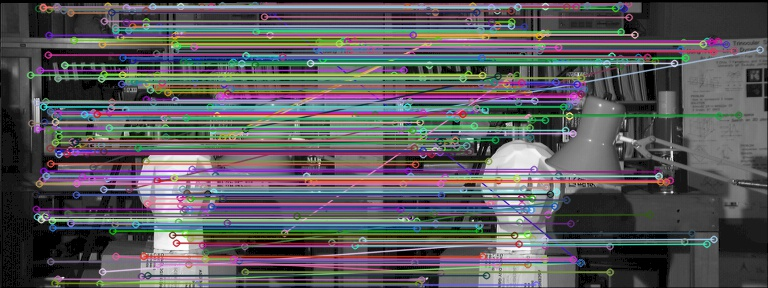
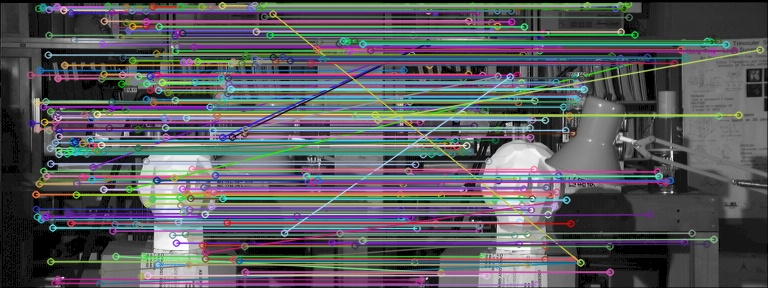
Added inlier epilines for eipoloar

diff --git a/Project 2/Task2/main.py b/Project 2/Task2/main.py
@@ -1,7 +1,6 @@
 import os
 import cv2 as cv
 import numpy as np
-from matplotlib import pyplot as plt
 import random
 
 UBIT = 'ameenmoh'
@@ -72,7 +71,7 @@ def _draw_match_keypoints(*args):
     return(good_matches)
 
 
-def _get_fundamental_matrix(good_matches, keypoint_1, keypoint_2, F_=True):
+def _get_fundamental_matrix(good_matches, keypoint_1, keypoint_2, F_ = True):
     """
     """
     source = np.float32(
@@ -85,6 +84,47 @@ def _get_fundamental_matrix(good_matches, keypoint_1, keypoint_2, F_=True):
         print('Fundamental Matrix')
         print(F)
     return F, mask, source, dest
+
+
+def drawlines(img1, img2, lines, pts1, pts2):
+    """ img1 - image on which we draw the epilines for the points in img2
+        lines - corresponding epilines 
+    """
+    r, c = img1.shape
+    img1 = cv.cvtColor(img1, cv.COLOR_GRAY2BGR)
+    img2 = cv.cvtColor(img2, cv.COLOR_GRAY2BGR)
+    for r, pt1, pt2 in zip(lines, pts1, pts2):
+        color = tuple(np.random.randint(0, 255, 3).tolist())
+        x0, y0 = map(int, [0, -r[2]/r[1]])
+        x1, y1 = map(int, [c, -(r[2]+r[0]*c)/r[1]])
+        img1 = cv.line(img1, (x0, y0), (x1, y1), color, 1)
+        # img1 = cv.circle(img1, tuple(pt1), 5, color, -1)
+        # img2 = cv.circle(img2, tuple(pt2), 5, color, -1)
+    return(img1, img2)
+
+
+def _draw_inlier_matches(img1_g, img2_g, good_matches, keypoint_1, keypoint_2):
+    """
+    """
+    good_matches = random.sample(good_matches, 10)
+    F, inliers, pts1, pts2 = _get_fundamental_matrix(
+        good_matches, keypoint_1, keypoint_2, False)
+    # Find epilines corresponding to points in right image (second image) and
+    # drawing its lines on left image
+    lines1 = cv.computeCorrespondEpilines(pts2.reshape(-1, 1, 2), 2, F)
+    lines1 = lines1.reshape(-1, 3)
+    img5, img6 = drawlines(img1_g, img2_g, lines1, pts1, pts2)
+
+    # Find epilines corresponding to points in left image (first image) and
+    # drawing its lines on right image
+    lines2 = cv.computeCorrespondEpilines(pts1.reshape(-1, 1, 2), 1, F)
+    lines2 = lines2.reshape(-1, 3)
+    img3, img4 = drawlines(img2_g, img1_g, lines2, pts2, pts1)
+
+    # plt.subplot(121), plt.imshow(img5)
+    _save('task2_epi_right.jpg', img5)
+    # plt.subplot(122), plt.imshow(img3)
+    _save('task2_epi_left.jpg', img3)
 
 
 if __name__ == '__main__':
@@ -104,3 +144,5 @@ if __name__ == '__main__':
     # Part 3
     F_Matrix, inliers, source, dest = _get_fundamental_matrix(
         good_matches, keypoint_1, keypoint_2)
+
+    _draw_inlier_matches(img1_g, img2_g, good_matches, keypoint_1, keypoint_2)
